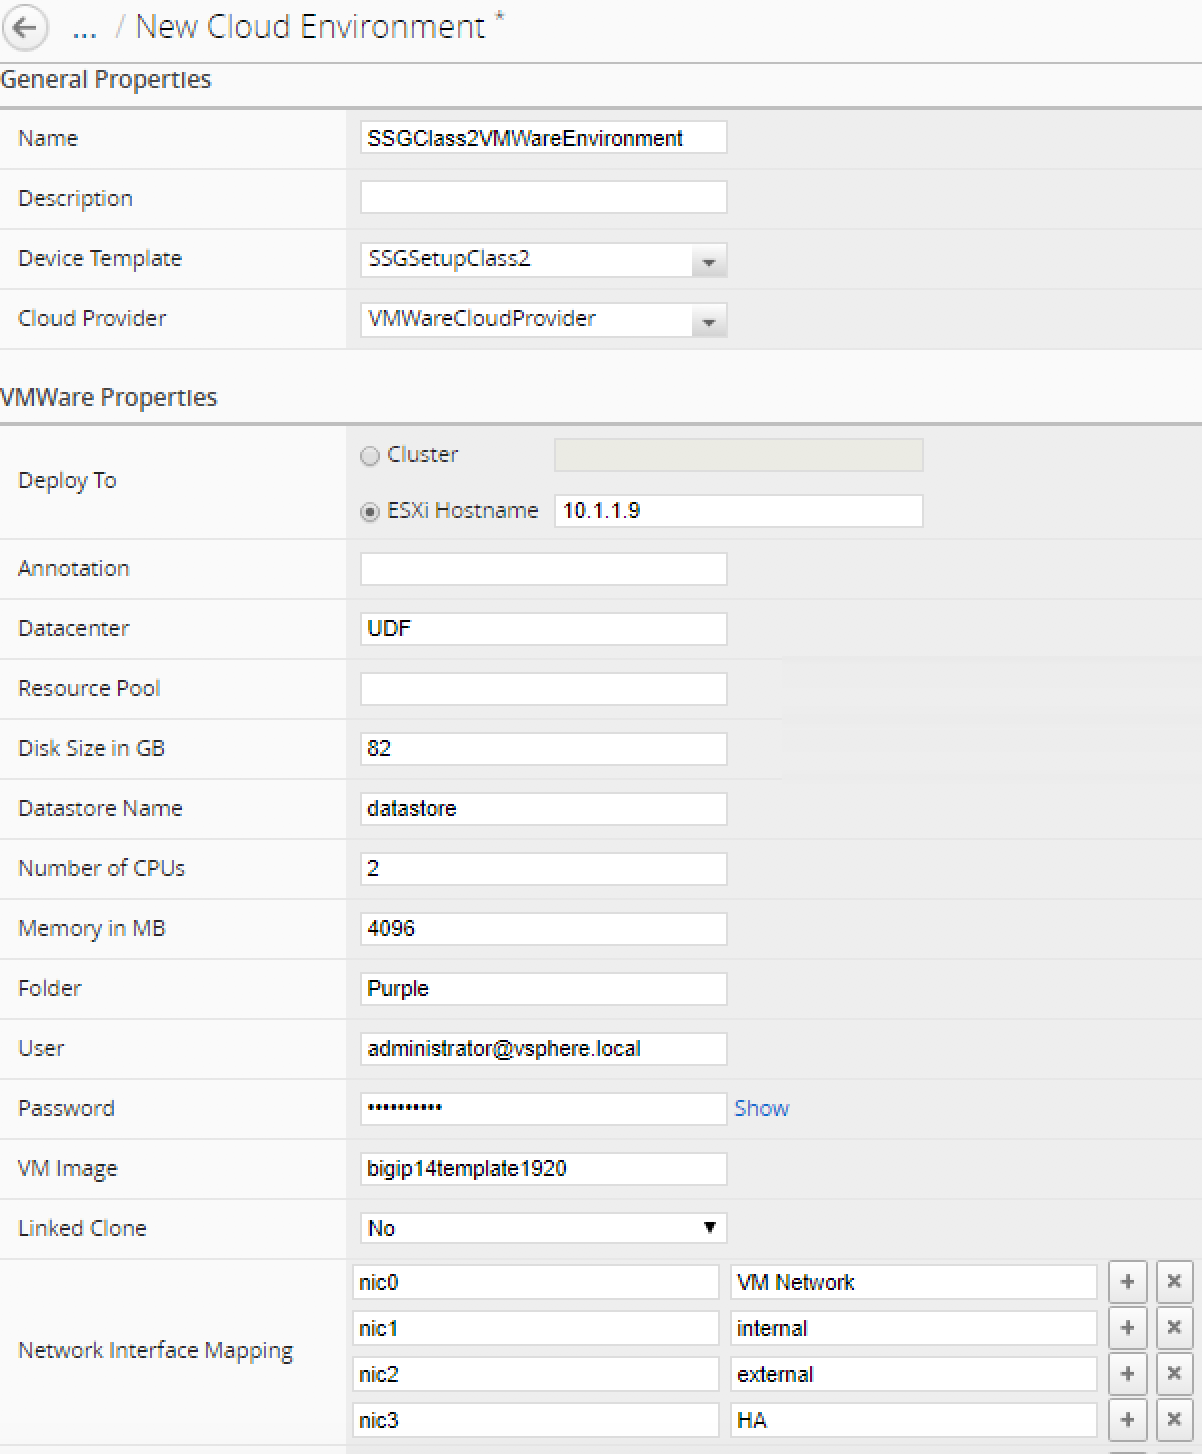
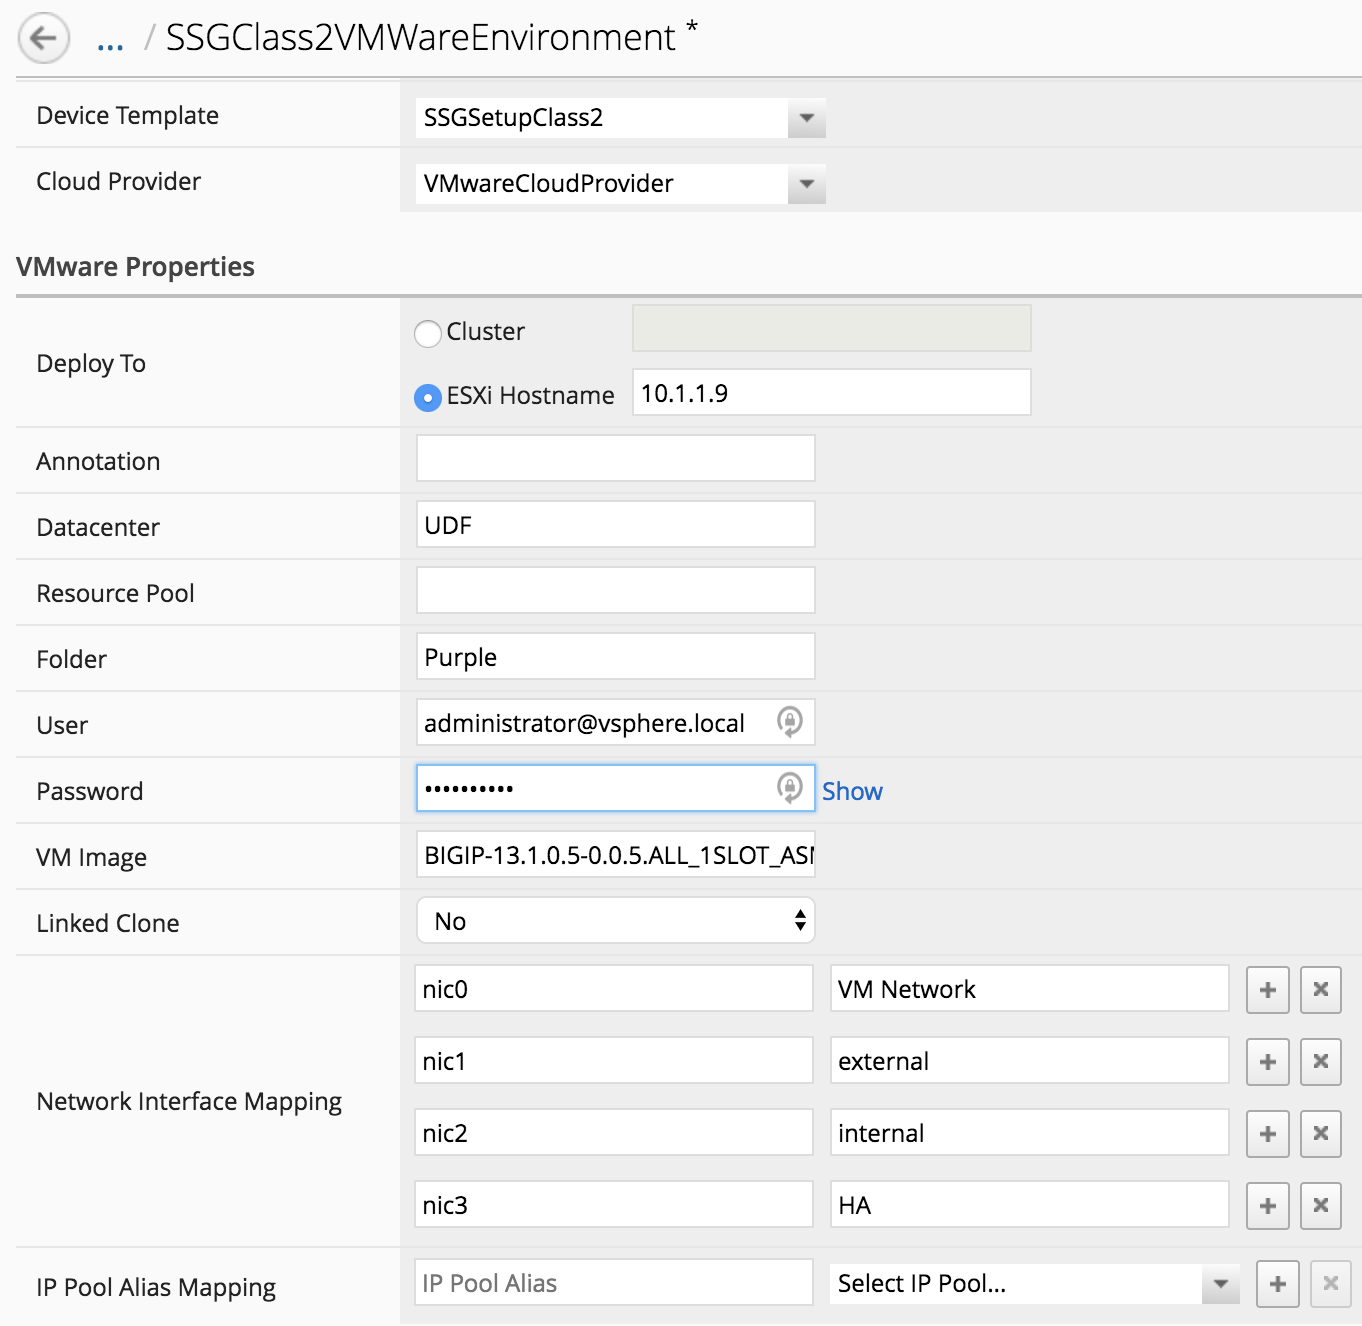
update class2/module1/lab2

diff --git a/docs/source/class2/module1/lab2.rst b/docs/source/class2/module1/lab2.rst
@@ -8,7 +8,7 @@ leverage a VMWare infrastructure
 Cloud Provider Setup
 ********************
 
-In your BIG-IQ interface, go to *Applications* > *Cloud* > *Cloud Providers*
+In your BIG-IQ interface, go to *Applications* > *Environments* > *Cloud Providers*
 
 .. image:: ../pictures/module1/img_module1_lab2_1.png
   :align: center
@@ -21,7 +21,7 @@ Click on the *Create* button:
 * Name: VMWareCloudProvider
 * Provider Type: select *VMWARE*
 * vCenter Hostname: 10.1.1.90
-* Super User: administrator@vsphere.local
+
 
 .. image:: ../pictures/module1/img_module1_lab2_2.png
   :align: center
@@ -30,7 +30,7 @@ Click on the *Create* button:
 |
 
 Click *Save & Close*. Now that your Cloud provider is setup, we can define your
-``Cloud Environments``. Go to *Applications* > *Cloud* > *Cloud Environments*
+``Cloud Environments``. Go to *Applications* > *Environments* > *Cloud Environments*
 and click on the *Create* button
 
 General Properties:
@@ -44,21 +44,17 @@ VMWare Properties:
 * DeployTo: Select *ESXi Hostname* and type: 10.1.1.9
 * Datacenter: UDF
 * Folder: Purple
-* Disk Size in GB: 82
-* Datastore Name: datastore
-* Number of CPUs: 2
-* Memory in MB: 4096
 * User: administrator@vsphere.local
 * Password: Purpl3$lab
-* VM Image:bigip14template1920
+* VM Image: BIGIP-13.1.0.5-0.0.5.ALL_1SLOT_ASM_template
 * Network Interface Mappings
 
   ========================== ===================
       Network Interface            Network
   ========================== ===================
           nic0                    VM Network
-          nic1                      internal
-          nic2                      external
+          nic1                      external
+          nic2                      internal
           nic3                        HA
   ========================== ===================
 
